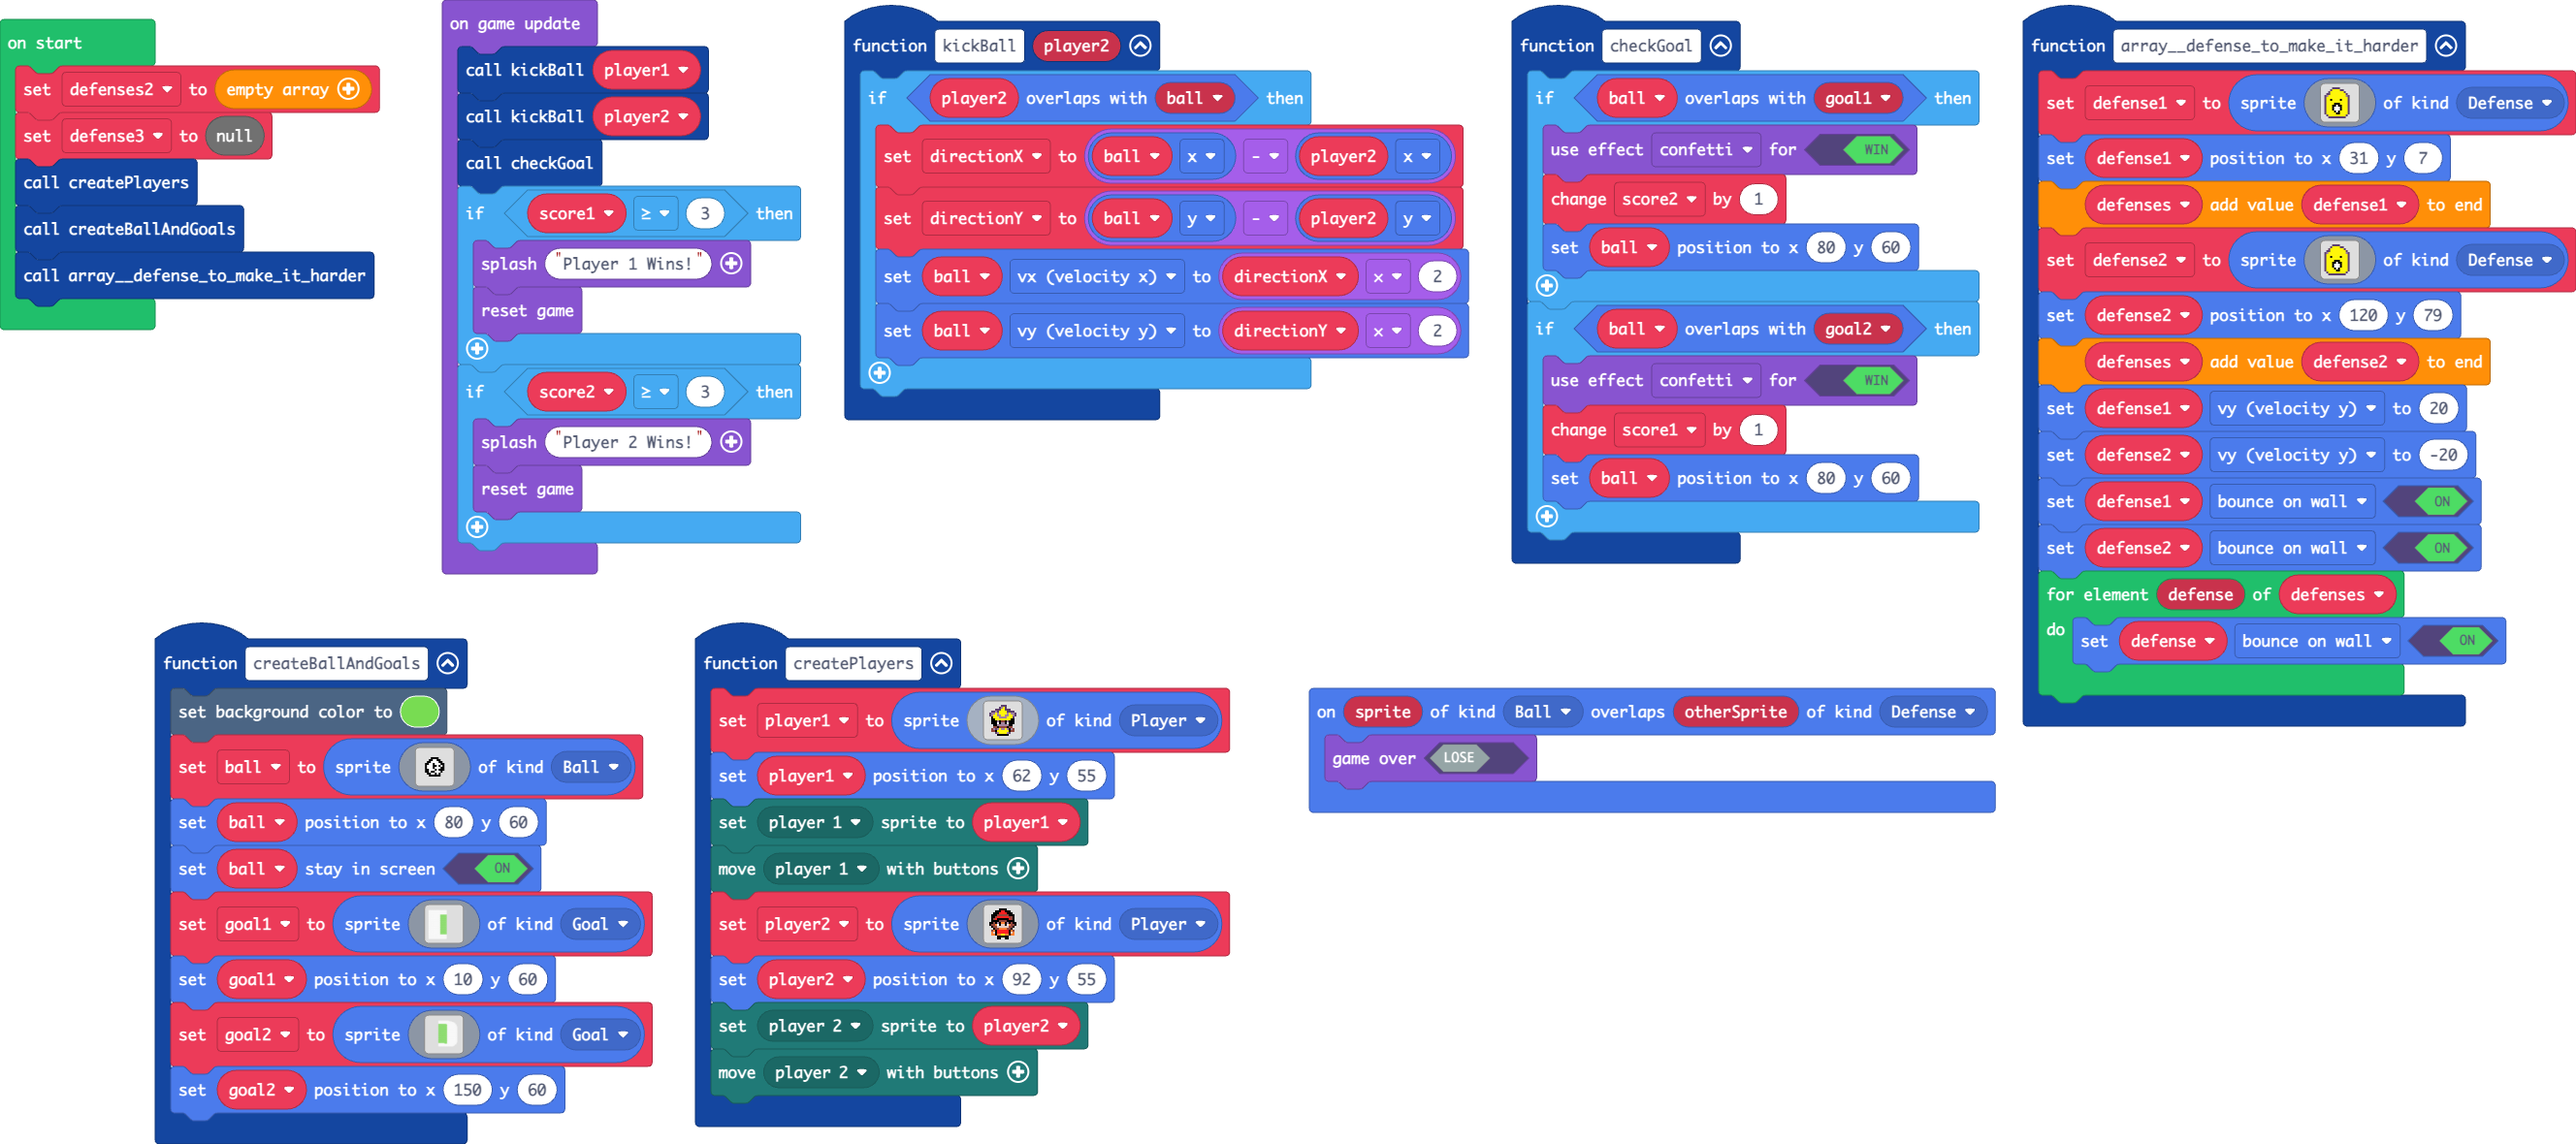
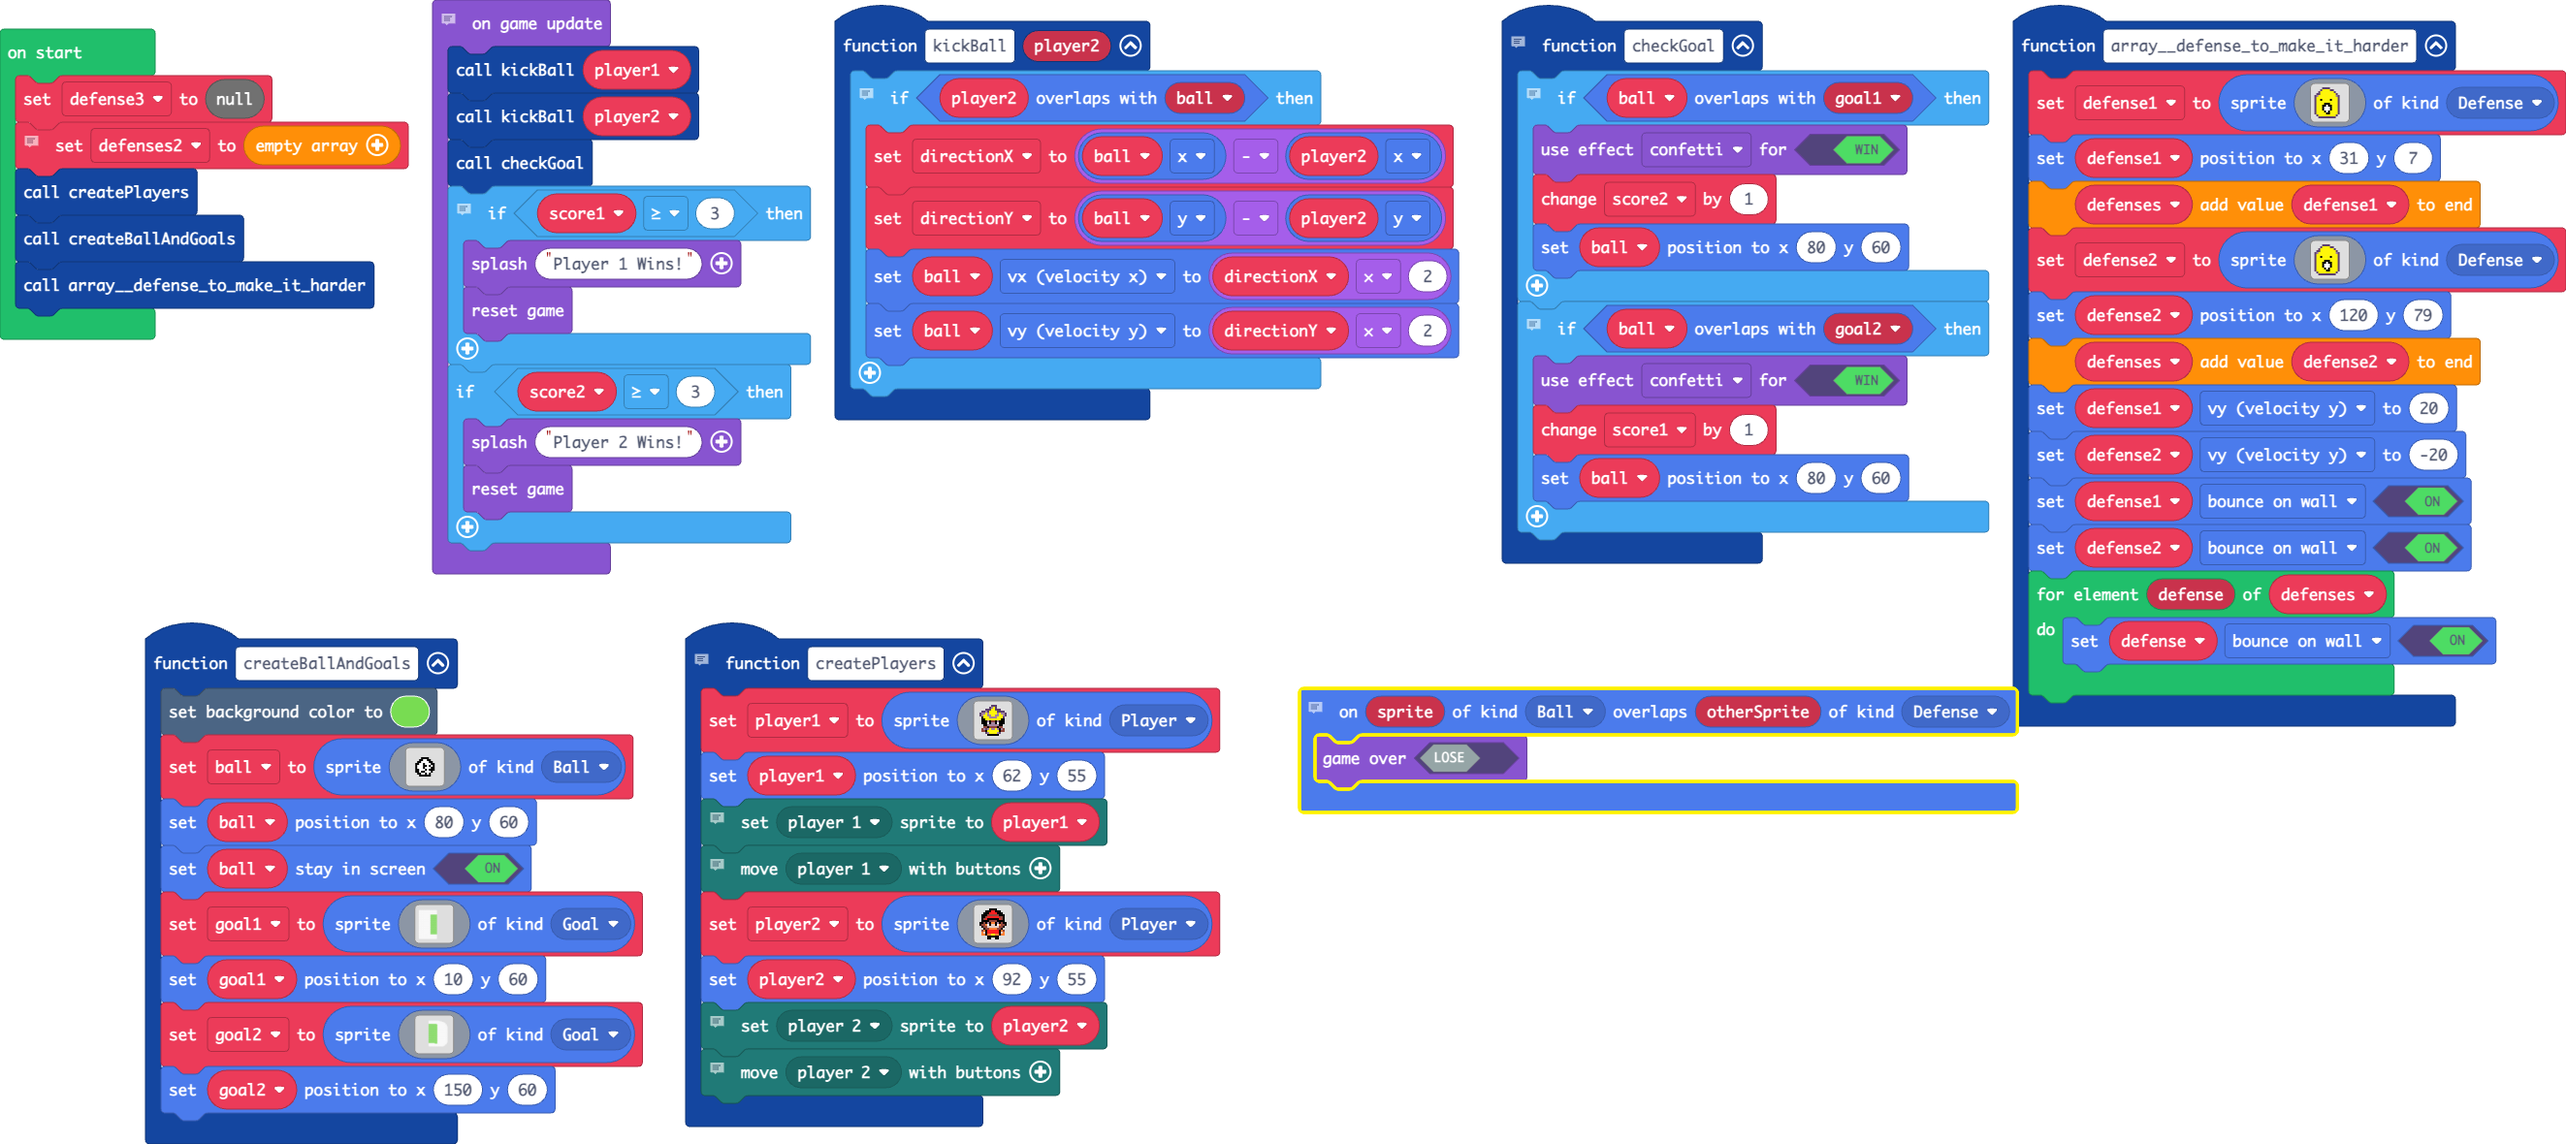
Update pxt.json, main.blocks, main.ts

Changed region(s): [[0.0, 0.0, 0.9607, 1.0], [0.6508, 0.4576, 0.7128, 0.4881]]

diff --git a/main.ts b/main.ts
@@ -4,6 +4,8 @@ namespace SpriteKind {
     export const Defense = SpriteKind.create()
 }
 function kickBall (player2: Sprite) {
+    // BOOLEAN OPERATOR
+    // 
     if (player2.overlapsWith(ball)) {
         directionX = ball.x - player2.x
         directionY = ball.y - player2.y
@@ -11,21 +13,32 @@ function kickBall (player2: Sprite) {
         ball.vy = directionY * 2
     }
 }
+// iteration
+// CONDITION
+// BOOLEAN OPERATOR
+// 
 sprites.onOverlap(SpriteKind.Ball, SpriteKind.Defense, function (sprite, otherSprite) {
     game.gameOver(false)
 })
+// iteration
+// if statment - loops
+// conditional statmenet
 function checkGoal () {
+    // CONDITION
+    // 
     if (ball.overlapsWith(goal1)) {
         game.setGameOverEffect(true, effects.confetti)
         score2 += 1
         ball.setPosition(80, 60)
     }
+    // CONDITION
     if (ball.overlapsWith(goal2)) {
         game.setGameOverEffect(true, effects.confetti)
         score1 += 1
         ball.setPosition(80, 60)
     }
 }
+// function with parameters
 function createPlayers () {
     player1 = sprites.create(img`
         . . . . . . . c c c . . . . . . 
@@ -46,7 +59,10 @@ function createPlayers () {
         . . . . . f f f f f f . . . . . 
         `, SpriteKind.Player)
     player1.setPosition(62, 55)
+    // EXTENSION
     mp.setPlayerSprite(mp.playerSelector(mp.PlayerNumber.One), player1)
+    // EXTENSION
+    // 
     mp.moveWithButtons(mp.playerSelector(mp.PlayerNumber.One))
     player2 = sprites.create(img`
         . . . . . . f f f f . . . . . . 
@@ -67,7 +83,11 @@ function createPlayers () {
         . . . . . f f . . f f . . . . . 
         `, SpriteKind.Player)
     player2.setPosition(92, 55)
+    // EXTENSION
+    // 
     mp.setPlayerSprite(mp.playerSelector(mp.PlayerNumber.Two), player2)
+    // EXTENSION
+    // 
     mp.moveWithButtons(mp.playerSelector(mp.PlayerNumber.Two))
 }
 function array__defense_to_make_it_harder () {
@@ -260,15 +280,19 @@ let goal1: Sprite = null
 let directionY = 0
 let directionX = 0
 let ball: Sprite = null
-let defenses2: number[] = []
 let defense3 = null
+// ARRAY
+// 
+let defenses2: number[] = []
 createPlayers()
 createBallAndGoals()
 array__defense_to_make_it_harder()
+// conditional statment
 game.onUpdate(function () {
     kickBall(player1)
     kickBall(player2)
     checkGoal()
+    // CONDITION
     if (score1 >= 3) {
         game.splash("Player 1 Wins!")
         game.reset()
